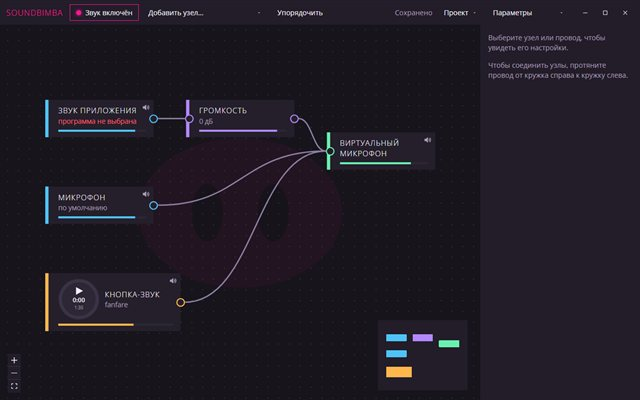
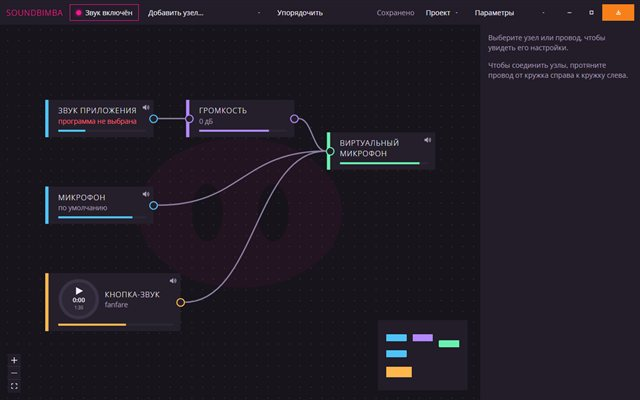
Window buttons: Windows 7 / 8 look, orange "hide to tray" instead of close
While the close button hides the window to the tray, it is drawn as an
orange "Hide to tray" button (arrow into a tray) in every theme, colour
from the new --window-tray / --window-tray-text theme variables; with
the setting off the usual cross comes back. Frutiger Aero draws the
window buttons like Windows 7 (one glassy group, wide red Close / orange
tray button, bold white glyphs), Metro like Windows 8 (flat, red Close
tile always shown, thin square glyphs). Both stay where the buttons were
in the toolbar and are as tall as the other toolbar buttons, as the
author asked. Theme previews retaken.

diff --git a/themes/frutiger-aero/theme.css b/themes/frutiger-aero/theme.css
@@ -22,6 +22,8 @@
   --accent: #6fe0ff;
   --accent-text: #04345e;
   --danger: #ffa3a3;
+  --window-tray: #ffb347;
+  --window-tray-text: #3d1d00;
   --radius: 12px;
   --radius-small: 7px;
   --shadow: 0 6px 22px rgba(0, 25, 60, 0.45), inset 0 1px 0 rgba(255, 255, 255, 0.45);
@@ -383,4 +385,75 @@
   [data-theme='frutiger-aero'] .map::after {
     animation: aero-twinkle 3.5s ease-in-out infinite;
   }
+}
+
+/* Кнопки окна — как в Windows 7: стеклянная группа на своём месте в панели; «Закрыть» — широкая
+   красная, «Свернуть в трей» — такая же оранжевая. Значки белые, толстые, с тёмной обводкой. */
+[data-theme='frutiger-aero'] .window-controls {
+  gap: 0;
+  border: 1px solid rgba(0, 20, 50, 0.7);
+  border-radius: 6px;
+  overflow: hidden;
+  box-shadow: 0 1px 0 rgba(255, 255, 255, 0.4), 0 2px 6px rgba(0, 25, 60, 0.35);
+}
+
+[data-theme='frutiger-aero'] .window-controls > button.window-control {
+  /* Высота — как у остальных кнопок панели (33px вместе с рамкой группы). */
+  width: 40px;
+  height: 31px;
+  border: none;
+  border-left: 1px solid rgba(0, 20, 50, 0.55);
+  border-radius: 0;
+  color: #ffffff;
+  background-image: linear-gradient(180deg, rgba(255, 255, 255, 0.55) 0%, rgba(205, 228, 250, 0.32) 45%, rgba(50, 100, 165, 0.38) 50%, rgba(110, 165, 220, 0.42) 100%);
+  box-shadow: inset 0 0 0 1px rgba(255, 255, 255, 0.32);
+  text-shadow: none;
+}
+
+[data-theme='frutiger-aero'] .window-controls > button.window-control:first-child {
+  border-left: none;
+}
+
+[data-theme='frutiger-aero'] .window-controls > button.window-control:hover {
+  color: #ffffff;
+  background-image: linear-gradient(180deg, rgba(225, 247, 255, 0.8) 0%, rgba(120, 200, 255, 0.58) 45%, rgba(15, 125, 225, 0.62) 50%, rgba(80, 205, 255, 0.75) 100%);
+  box-shadow: inset 0 0 0 1px rgba(255, 255, 255, 0.5), inset 0 -5px 8px rgba(130, 235, 255, 0.65);
+}
+
+[data-theme='frutiger-aero'] .window-controls > button.window-control.window-close,
+[data-theme='frutiger-aero'] .window-controls > button.window-control.window-tray {
+  width: 62px;
+}
+
+[data-theme='frutiger-aero'] .window-controls > button.window-control.window-close {
+  background-image: linear-gradient(180deg, #eab4a6 0%, #d78a74 45%, #c0442a 50%, #d4653f 100%);
+}
+
+[data-theme='frutiger-aero'] .window-controls > button.window-control.window-close:hover {
+  background-image: linear-gradient(180deg, #ffd0c2 0%, #f2937b 45%, #e23e1a 50%, #ff7040 100%);
+  box-shadow: inset 0 0 0 1px rgba(255, 255, 255, 0.5), inset 0 -5px 8px rgba(255, 170, 120, 0.75);
+}
+
+[data-theme='frutiger-aero'] .window-controls > button.window-control.window-tray {
+  background-image: linear-gradient(180deg, #ffe2ad 0%, #ffc066 45%, #ee870f 50%, #ffa936 100%);
+}
+
+[data-theme='frutiger-aero'] .window-controls > button.window-control.window-tray:hover {
+  background-image: linear-gradient(180deg, #fff0cf 0%, #ffd08a 45%, #ff9810 50%, #ffc04d 100%);
+  box-shadow: inset 0 0 0 1px rgba(255, 255, 255, 0.55), inset 0 -5px 8px rgba(255, 225, 140, 0.8);
+}
+
+[data-theme='frutiger-aero'] .window-controls > button.window-control:active {
+  background-image: linear-gradient(180deg, rgba(10, 60, 130, 0.55) 0%, rgba(40, 110, 190, 0.5) 100%);
+  box-shadow: inset 0 2px 4px rgba(0, 20, 50, 0.6);
+}
+
+[data-theme='frutiger-aero'] .window-control svg {
+  width: 17px;
+  height: 17px;
+  filter: drop-shadow(0 0 1px rgba(0, 20, 50, 0.95)) drop-shadow(0 1px 0 rgba(0, 20, 50, 0.6));
+}
+
+[data-theme='frutiger-aero'] .window-control svg path {
+  stroke-width: 3;
 }

diff --git a/themes/metro/theme.css b/themes/metro/theme.css
@@ -19,6 +19,8 @@
   --accent: #ff1493;
   --accent-text: #ffffff;
   --danger: #ff5c6c;
+  --window-tray: #f7801a;
+  --window-tray-text: #ffffff;
   --radius: 0px;
   --radius-small: 0px;
   --shadow: none;
@@ -92,4 +94,72 @@
 [data-theme='metro'] .voice-confirm-buttons > button:not(.danger):not(.primary):hover {
   background: var(--control-bg-hover);
   color: var(--accent);
+}
+
+/* Кнопки окна — как в Windows 8: плоские, на своём месте в панели; «Закрыть» — широкая красная
+   плитка всегда, «Свернуть в трей» — такая же оранжевая. Значки тонкие, с прямыми концами. */
+[data-theme='metro'] .window-controls {
+  gap: 0;
+}
+
+[data-theme='metro'] .window-controls > .window-control {
+  /* Высота — как у остальных кнопок панели. */
+  width: 44px;
+  height: 33px;
+  border: none;
+  border-radius: 0;
+  background: transparent;
+  color: var(--text);
+}
+
+[data-theme='metro'] .window-controls > .window-control:hover {
+  background: rgba(255, 255, 255, 0.14);
+  color: var(--text);
+}
+
+[data-theme='metro'] .window-controls > .window-control:active {
+  background: rgba(255, 255, 255, 0.24);
+}
+
+[data-theme='metro'] .window-controls > .window-control.window-close,
+[data-theme='metro'] .window-controls > .window-control.window-tray {
+  width: 64px;
+  color: #ffffff;
+}
+
+[data-theme='metro'] .window-controls > .window-control.window-close {
+  background: #c75050;
+}
+
+[data-theme='metro'] .window-controls > .window-control.window-close:hover {
+  background: #e04343;
+  color: #ffffff;
+}
+
+[data-theme='metro'] .window-controls > .window-control.window-close:active {
+  background: #993d3d;
+}
+
+[data-theme='metro'] .window-controls > .window-control.window-tray {
+  background: var(--window-tray);
+}
+
+[data-theme='metro'] .window-controls > .window-control.window-tray:hover {
+  background: #ff9a3d;
+  color: #ffffff;
+}
+
+[data-theme='metro'] .window-controls > .window-control.window-tray:active {
+  background: #c5630d;
+}
+
+[data-theme='metro'] .window-control svg {
+  width: 13px;
+  height: 13px;
+}
+
+[data-theme='metro'] .window-control svg path {
+  stroke-width: 2.4;
+  stroke-linecap: square;
+  stroke-linejoin: miter;
 }

diff --git a/app/ui/src/components/WindowControls.tsx b/app/ui/src/components/WindowControls.tsx
@@ -20,6 +20,8 @@ const ICONS = {
   maximize: 'M6.5 6.5h11v11h-11z',
   restore: 'M8.5 9.5h9v8h-9zM6.5 14.5v-8h9',
   close: 'M7 7l10 10M17 7 7 17',
+  // «В трей»: стрелка вниз — в лоток (вместо крестика, когда крестик прячет окно в трей).
+  tray: 'M12 4.5v9M8 10l4 4 4-4M5.5 14.5v4h13v-4',
 } as const;
 
 const fail = (what: string) => (err: unknown) => api.log('error', `window ${what} failed: ${String(err)}`);
@@ -182,7 +184,8 @@ function Control({ kind, label, onClick }: { kind: keyof typeof ICONS; label: st
   );
 }
 
-export default function WindowControls() {
+/** `toTray` — крестик прячет окно в трей: вместо него оранжевая кнопка «Свернуть в трей». */
+export default function WindowControls({ toTray }: { toTray: boolean }) {
   const t = useT();
   const [maximized, setMaximized] = useState(false);
   useEffect(() => {
@@ -202,7 +205,12 @@ export default function WindowControls() {
         label={t(maximized ? 'window.restore' : 'window.maximize')}
         onClick={() => void w?.toggleMaximize()}
       />
-      <Control kind="close" label={t('window.close')} onClick={() => void (w ? w.close() : window.close())} />
+      {/* Окно закрывается одинаково: прятать ли его в трей, решает Rust (настройка closeToTray). */}
+      <Control
+        kind={toTray ? 'tray' : 'close'}
+        label={t(toTray ? 'window.toTray' : 'window.close')}
+        onClick={() => void (w ? w.close() : window.close())}
+      />
     </div>
   );
 }

diff --git a/app/ui/src/app.css b/app/ui/src/app.css
@@ -189,6 +189,18 @@ input[type='range']:focus-visible {
   border-color: var(--danger);
 }
 
+/* «Свернуть в трей» (вместо крестика) — оранжевая во всех темах. */
+.window-control.window-tray {
+  color: var(--window-tray);
+  border-color: var(--window-tray);
+}
+
+.window-control.window-tray:hover:not(:disabled) {
+  background: var(--window-tray);
+  border-color: var(--window-tray);
+  color: var(--window-tray-text);
+}
+
 /* Выпадающие списки панели (свои, не системные — оформлены по теме). */
 .dropdown {
   position: relative;

diff --git a/app/ui/src/components/Toolbar.tsx b/app/ui/src/components/Toolbar.tsx
@@ -121,7 +121,7 @@ export default function Toolbar(p: Props) {
           { items: [{ value: 'settings:open', label: t('toolbar.settings') }] },
         ]}
       />
-      <WindowControls />
+      <WindowControls toTray={p.settings.closeToTray !== false} />
     </header>
   );
 }

diff --git a/themes/bimba/theme.css b/themes/bimba/theme.css
@@ -17,6 +17,8 @@
   --accent: #ff1493;
   --accent-text: #ffffff;
   --danger: #ff5c6c;
+  --window-tray: #ff9a3c;
+  --window-tray-text: #1d1206;
   --radius: 14px;
   --radius-small: 8px;
   --shadow: 0 6px 18px rgba(0, 0, 0, 0.35);

diff --git a/themes/magic/theme.css b/themes/magic/theme.css
@@ -22,6 +22,8 @@
   --accent: #e8c26a;
   --accent-text: #1b1534;
   --danger: #ff6f8e;
+  --window-tray: #ffa94d;
+  --window-tray-text: #1d1206;
   --radius: 12px;
   --radius-small: 7px;
   --shadow: 0 6px 20px rgba(2, 3, 14, 0.6);

diff --git a/themes/neo-noir/theme.css b/themes/neo-noir/theme.css
@@ -22,6 +22,8 @@
   --accent: #ff2bd6;
   --accent-text: #ffffff;
   --danger: #ff4d6a;
+  --window-tray: #ff9a3c;
+  --window-tray-text: #120d06;
   --radius: 14px;
   --radius-small: 8px;
   --shadow: 0 6px 22px rgba(0, 0, 0, 0.65);

diff --git a/themes/kids-dark/theme.css b/themes/kids-dark/theme.css
@@ -21,6 +21,8 @@
   --accent: #e9a6c8;
   --accent-text: #2a2638;
   --danger: #e89a9a;
+  --window-tray: #ffa04d;
+  --window-tray-text: #1a1724;
   --radius: 18px;
   --radius-small: 12px;
   --shadow: 4px 4px 0 #1a1724;

diff --git a/themes/kids/theme.css b/themes/kids/theme.css
@@ -22,6 +22,8 @@
   --accent: #ff3d8b;
   --accent-text: #ffffff;
   --danger: #ff2d2d;
+  --window-tray: #ff8a00;
+  --window-tray-text: #2b1b5a;
   --radius: 18px;
   --radius-small: 12px;
   --shadow: 4px 4px 0 #2b1b5a;

diff --git a/themes/engineer/theme.css b/themes/engineer/theme.css
@@ -20,6 +20,8 @@
   --accent: #e2b54c;
   --accent-text: #0a2e21;
   --danger: #ff7a5c;
+  --window-tray: #ff9f43;
+  --window-tray-text: #1d1206;
   --radius: 0px;
   --radius-small: 0px;
   --shadow: none;

diff --git a/docs/ARCHITECTURE.md b/docs/ARCHITECTURE.md
@@ -252,6 +252,10 @@ Rust (при касании в Virtual Desktop курсор стоит на ме
 обычное закрытие. Подписи меню присылает интерфейс (локализация), значок появляется после его
 загрузки; пока значка нет, крестик закрывает программу (спрятанное окно было бы нечем вернуть).
 Второй запуск программы показывает спрятанное окно. Кнопочная панель при этом остаётся на экране.
+Пока крестик прячет окно, вместо крестика — оранжевая кнопка «Свернуть в трей» (стрелка в лоток,
+цвет `--window-tray` в каждой теме). Кнопки окна во «Фрутигер Аэро» — как в Windows 7 (стеклянная
+группа, широкая красная «Закрыть»; на прежнем месте в панели, не у края окна — решение автора), в «Метро» — как в Windows 8 (плоские, красная
+плитка «Закрыть»).
 
 **Локализация.** `locales/{ru,en,uk}.json`, ключи вместо строк в коде, запасной язык — английский.
 Язык по умолчанию — язык системы.
